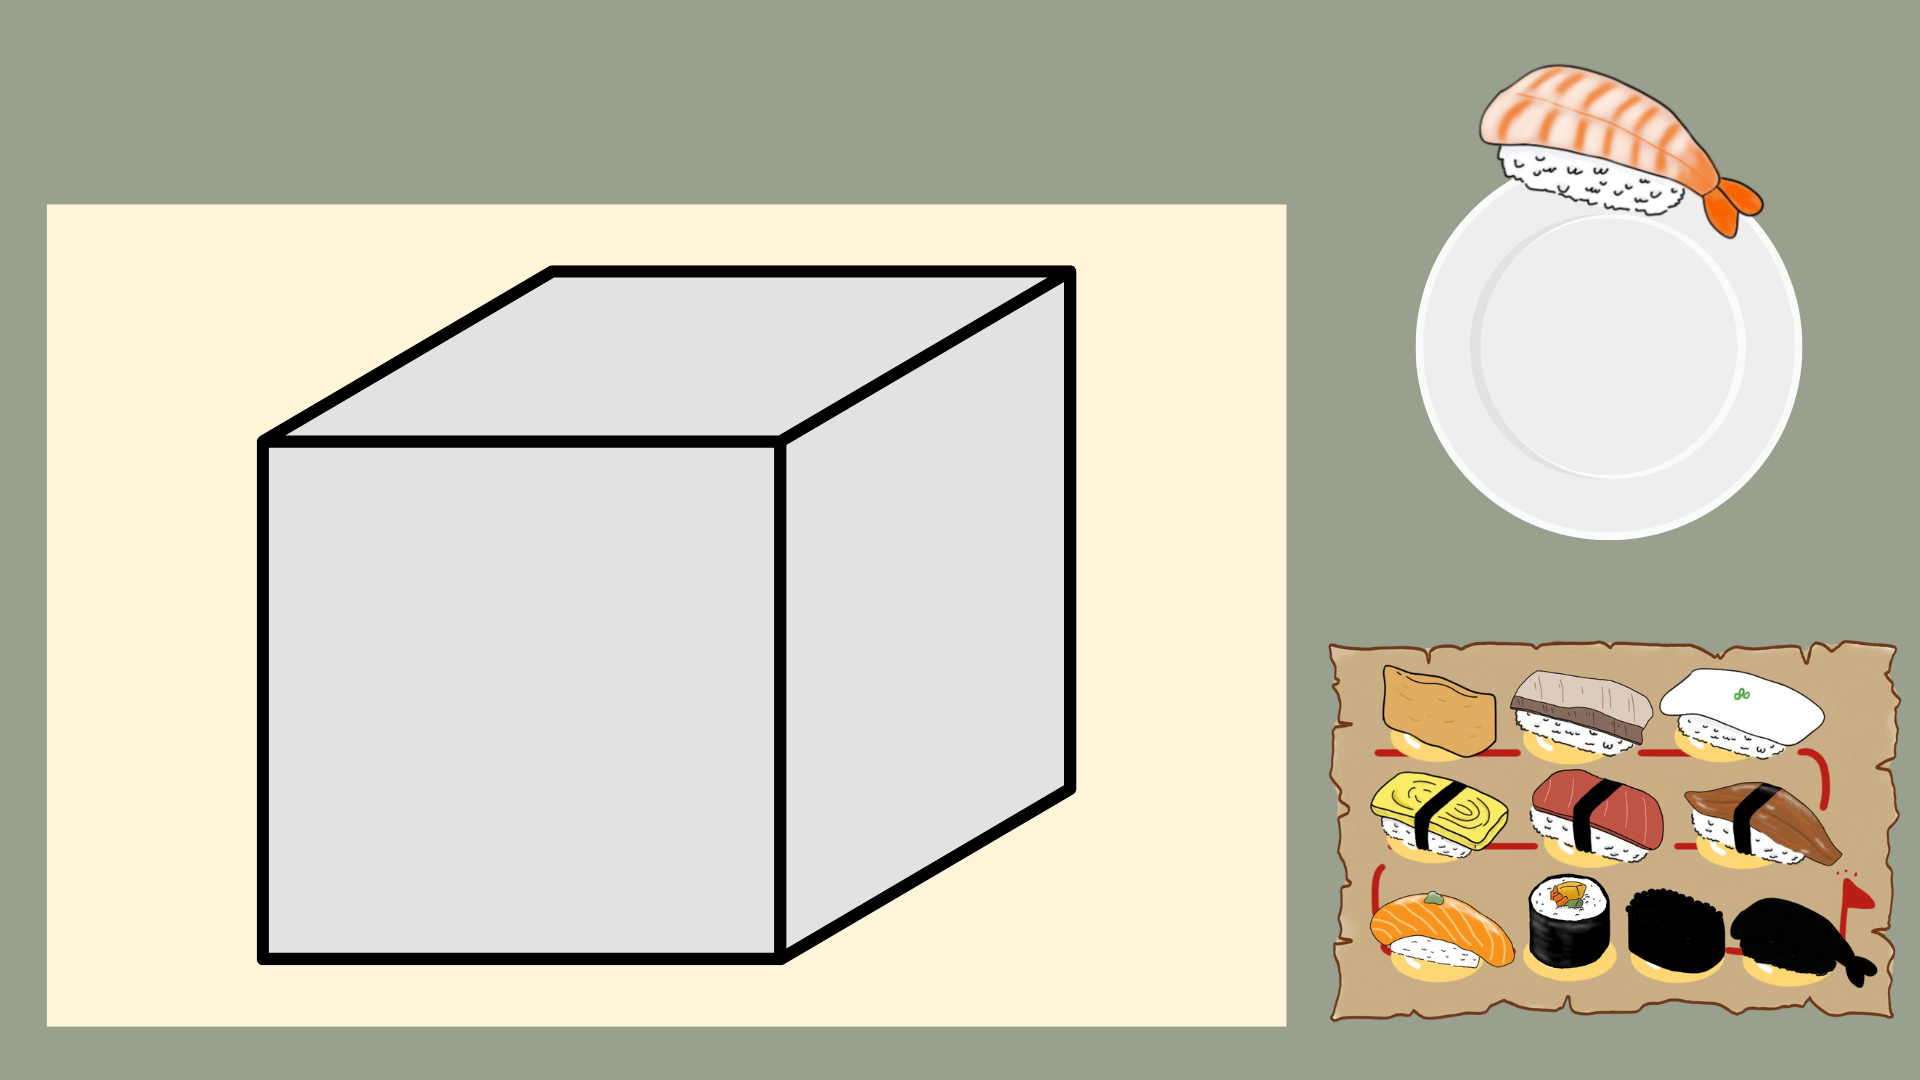
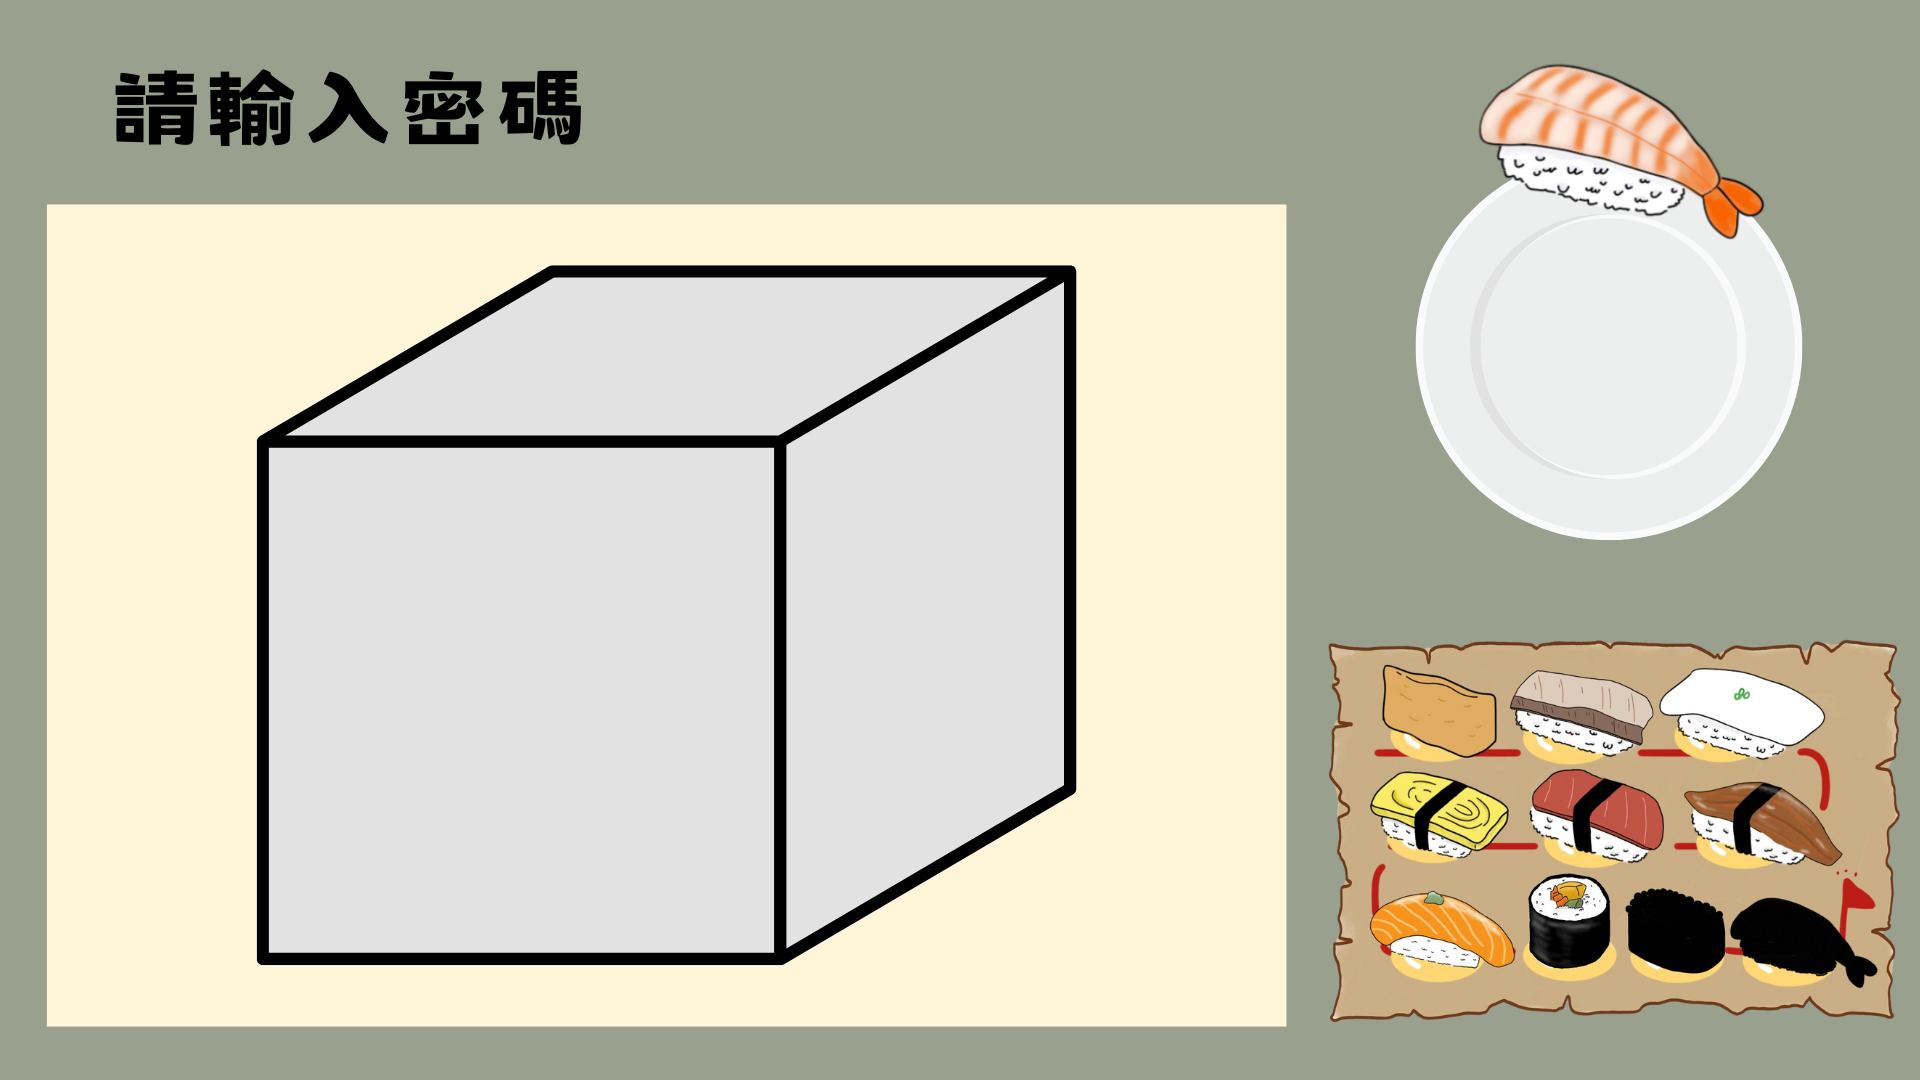
增加背景說明  改按鈕位置

Changed region(s): [[0.0625, 0.0611, 0.3125, 0.1528]]

diff --git a/assets/js/introduce10.js b/assets/js/introduce10.js
@@ -14,7 +14,7 @@ class Introduce10 extends Phaser.Scene {
     this.add.image(0, 0, "ins10").setOrigin(0, 0); //將中心點訂為左上角
     // 加載 "下一步" 圖片並設置為可點擊
     this.button = this.add
-      .image(900, 900, "next")
+      .image(900, 950, "next")
       .setScale(0.1)
       .setOrigin(0, 0)
       .setInteractive();
